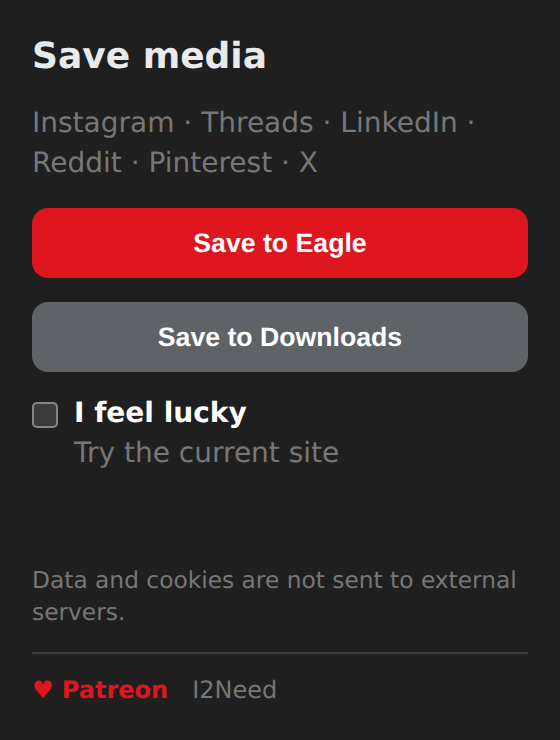
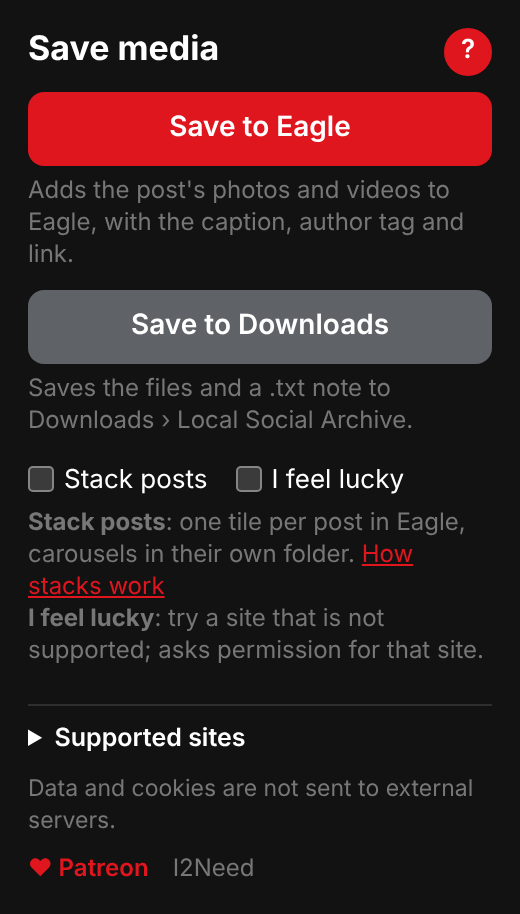
Compact popup with a ? help mode; "What's new" after updates
The popup had grown into a page of text. Now: title, two save buttons,
two toggles (Stack posts, I feel lucky). The ? button turns on help
mode: a caption under each control, a collapsible list of supported
sites, the privacy line and support links. It starts on for new users
and is remembered once turned off.

After an update the background marks the toolbar icon NEW
(onInstalled reason "update"); the popup shows the version's highlights
until dismissed, which clears the badge. The badge is the signal, so
users updating from versions that stored nothing still see it.

Save handlers are bound to the two save buttons only, so ? and the
dismiss button never start a save.

Claude-Session: https://claude.ai/code/session_01BWzGfyfB5TgAkvLPHxc4Ut

diff --git a/chrome-extension/popup.js b/chrome-extension/popup.js
@@ -1,18 +1,68 @@
 const status = document.querySelector('#status');
 const lucky = document.querySelector('#i-feel-lucky');
 const stack = document.querySelector('#stack-posts');
-// A per-browser preference; the extension has no storage permission.
-try { stack.checked = localStorage.getItem('stackPosts') === '1'; } catch { /* private mode */ }
+
+// Per-browser preferences; the extension has no storage permission.
+const prefs = {
+  get: key => { try { return localStorage.getItem(key); } catch { return null; } },
+  set: (key, value) => { try { localStorage.setItem(key, value); } catch { /* private mode */ } }
+};
+
+stack.checked = prefs.get('stackPosts') === '1';
 stack.addEventListener('change', () => {
-  try { localStorage.setItem('stackPosts', stack.checked ? '1' : '0'); } catch { /* ignore */ }
+  prefs.set('stackPosts', stack.checked ? '1' : '0');
   // The first time stacks are turned on, show the guide: they need a smart
   // folder in Eagle that only the user can create.
-  let seen = false;
-  try { seen = localStorage.getItem('stackGuideSeen') === '1'; localStorage.setItem('stackGuideSeen', '1'); } catch { /* ignore */ }
+  const seen = prefs.get('stackGuideSeen') === '1';
+  prefs.set('stackGuideSeen', '1');
   if (stack.checked && !seen) chrome.tabs.create({ url: chrome.runtime.getURL('stacks.html') });
 });
 
-for (const button of document.querySelectorAll('button')) button.addEventListener('click', async () => {
+// Help mode: the ? button shows a caption under each control, the supported
+// sites and the fine print. On until the user first turns it off.
+const helpButton = document.querySelector('#toggle-help');
+function setHelp(on) {
+  document.body.classList.toggle('help-on', on);
+  helpButton.setAttribute('aria-pressed', String(on));
+  helpButton.title = on ? 'Hide explanations' : 'Show explanations';
+}
+setHelp(prefs.get('helpMode') !== 'off');
+helpButton.addEventListener('click', () => {
+  const on = !document.body.classList.contains('help-on');
+  setHelp(on);
+  prefs.set('helpMode', on ? 'on' : 'off');
+});
+
+// What's new: the background marks the toolbar icon NEW after an update;
+// the popup shows this version's highlights until dismissed.
+const WHATS_NEW = {
+  '0.2.5': [
+    'A cleaner popup: press ? for explanations and the list of sites.',
+    'Photo-only posts from X save again.',
+    'Vimeo: cover and link, plus the video when its owner allows.',
+    'Stack posts in Eagle: one tile per post (see How stacks work).'
+  ]
+};
+(async () => {
+  let badge = '';
+  try { badge = await chrome.action.getBadgeText({}); } catch { /* older Chrome */ }
+  if (badge !== 'NEW') return;
+  const version = chrome.runtime.getManifest().version;
+  document.querySelector('#news-title').textContent = `What's new in ${version}`;
+  document.querySelector('#news-list').innerHTML = '';
+  for (const line of WHATS_NEW[version] || ['Improvements and fixes.']) {
+    const item = document.createElement('li');
+    item.textContent = line;
+    document.querySelector('#news-list').append(item);
+  }
+  document.querySelector('#whats-new').hidden = false;
+})();
+document.querySelector('#dismiss-news').addEventListener('click', () => {
+  document.querySelector('#whats-new').hidden = true;
+  chrome.action.setBadgeText({ text: '' });
+});
+
+for (const button of document.querySelectorAll('button.save')) button.addEventListener('click', async () => {
   const destination = button.id === 'save-eagle' ? 'eagle' : 'downloads';
   setDisabled(true);
   status.value = 'Collecting media from tab...';
@@ -41,7 +91,7 @@ function downloadSummary({ mediaCount, pending, failed, renamed, note }) {
   return lines.join('\n');
 }
 
-function setDisabled(disabled) { document.querySelectorAll('button').forEach(button => { button.disabled = disabled; }); }
+function setDisabled(disabled) { document.querySelectorAll('button.save').forEach(button => { button.disabled = disabled; }); }
 
 // Videos on X and Vimeo need another host (X's embed service, the Vimeo player); ask once, on the first save there.
 // Declining still saves the post's photos.

diff --git a/chrome-extension/popup.css b/chrome-extension/popup.css
@@ -1,20 +1,37 @@
-:root { color-scheme: light dark; font: 14px/1.4 system-ui, sans-serif; }
-body { width: 280px; margin: 0; }
-main { display: grid; gap: 12px; padding: 16px; }
-h1, p { margin: 0; }
-h1 { font-size: 18px; }
-p, small { color: #777; }
-button { border: 0; border-radius: 8px; padding: 10px 12px; background: #e0161f; color: white; cursor: pointer; font-weight: 600; }
+:root { color-scheme: light dark; font: 14px/1.4 system-ui, sans-serif; --accent: #e0161f; --muted: #777; --line: color-mix(in srgb, CanvasText 12%, transparent); }
+body { width: 260px; margin: 0; }
+main { display: grid; gap: 8px; padding: 14px; }
+header { display: flex; align-items: center; justify-content: space-between; }
+h1 { margin: 0; font-size: 17px; }
+button { border: 0; border-radius: 8px; padding: 10px 12px; background: var(--accent); color: white; cursor: pointer; font: 600 14px/1.2 system-ui, sans-serif; }
 .secondary { background: #5f6368; }
-.lucky-option { display: flex; align-items: start; gap: 8px; color: #777; cursor: pointer; }
-.lucky-option input { margin: 3px 0 0; }
-.lucky-option strong { color: CanvasText; }
 button:hover:not(:disabled) { filter: brightness(.92); }
 button:disabled { opacity: .6; cursor: wait; }
-output { min-height: 20px; white-space: pre-line; }
-.support { display: flex; gap: 12px; padding-top: 10px; border-top: 1px solid color-mix(in srgb, CanvasText 12%, transparent); font-size: 12px; }
-.support a { color: #777; text-decoration: none; }
-.support a:first-child { color: #e0161f; font-weight: 600; }
+.icon { display: grid; place-items: center; width: 24px; height: 24px; padding: 0; border: 1px solid var(--line); border-radius: 50%; background: none; color: var(--muted); font-size: 13px; }
+.icon[aria-pressed="true"] { border-color: var(--accent); background: var(--accent); color: #fff; }
+.icon.small { width: 20px; height: 20px; border: 0; font-size: 16px; }
+
+.toggles { display: flex; gap: 14px; margin-top: 2px; font-size: 13px; }
+.toggles label { display: flex; align-items: center; gap: 5px; cursor: pointer; }
+.toggles input { margin: 0; accent-color: var(--accent); }
+output { min-height: 0; white-space: pre-line; font-size: 13px; }
+output:not(:empty) { padding-top: 2px; }
+
+/* Explanations appear only in help mode (the ? button). */
+.caption, .help { display: none; }
+body.help-on .caption { display: block; margin: -4px 0 2px; color: var(--muted); font-size: 12px; line-height: 1.35; }
+body.help-on .help { display: grid; gap: 8px; padding-top: 8px; border-top: 1px solid var(--line); }
+.caption a { color: var(--accent); }
+details summary { cursor: pointer; font-size: 12.5px; font-weight: 600; }
+.sites { margin: 6px 0 0; padding-left: 16px; color: var(--muted); font-size: 12px; }
+.sites b { color: CanvasText; font-weight: 600; }
+.fine { margin: 0; color: var(--muted); font-size: 11.5px; }
+.support { display: flex; gap: 12px; font-size: 12px; }
+.support a { color: var(--muted); text-decoration: none; }
+.support a:first-child { color: var(--accent); font-weight: 600; }
 .support a:hover { text-decoration: underline; }
-.help-link { margin: -6px 0 0 24px; color: #e0161f; font-size: 12.5px; text-decoration: none; }
-.help-link:hover { text-decoration: underline; }
+
+.news { padding: 8px 10px; border: 1px solid color-mix(in srgb, var(--accent) 45%, transparent); border-radius: 8px; background: color-mix(in srgb, var(--accent) 8%, transparent); font-size: 12.5px; }
+.news-head { display: flex; align-items: center; justify-content: space-between; }
+.news ul { margin: 4px 0 0; padding-left: 16px; }
+.news li + li { margin-top: 2px; }

diff --git a/chrome-extension/popup.html b/chrome-extension/popup.html
@@ -8,25 +8,54 @@
   </head>
   <body>
     <main>
-      <h1>Save media</h1>
-      <p>Instagram · Threads · LinkedIn · Reddit · Pinterest · X · YouTube &amp; Vimeo</p>
-      <button id="save-eagle" type="button">Save to Eagle</button>
-      <button id="save-downloads" type="button" class="secondary">Save to Downloads</button>
-      <label class="lucky-option">
-        <input id="i-feel-lucky" type="checkbox">
-        <span><strong>I feel lucky</strong><br>Try the current site</span>
-      </label>
-      <label class="lucky-option">
-        <input id="stack-posts" type="checkbox">
-        <span><strong>Stack posts in Eagle</strong><br>One tile per post in a “Stacks” smart folder</span>
-      </label>
-      <a id="stack-help" class="help-link" href="stacks.html" target="_blank">How stacks work →</a>
+      <header>
+        <h1>Save media</h1>
+        <button id="toggle-help" class="icon" type="button" aria-pressed="false" title="Show explanations">?</button>
+      </header>
+
+      <section id="whats-new" class="news" hidden>
+        <div class="news-head"><strong id="news-title">What's new</strong>
+          <button id="dismiss-news" class="icon small" type="button" aria-label="Dismiss">×</button></div>
+        <ul id="news-list"></ul>
+      </section>
+
+      <button id="save-eagle" class="save" type="button">Save to Eagle</button>
+      <p class="caption">Adds the post's photos and videos to Eagle, with the caption, author tag and link.</p>
+      <button id="save-downloads" class="save secondary" type="button">Save to Downloads</button>
+      <p class="caption">Saves the files and a .txt note to Downloads › Local Social Archive.</p>
+
+      <div class="toggles">
+        <label><input id="stack-posts" type="checkbox"> Stack posts</label>
+        <label><input id="i-feel-lucky" type="checkbox"> I feel lucky</label>
+      </div>
+      <p class="caption">
+        <strong>Stack posts</strong>: one tile per post in Eagle, carousels in their own folder.
+        <a href="stacks.html" target="_blank">How stacks work</a><br>
+        <strong>I feel lucky</strong>: try a site that is not supported; asks permission for that site.
+      </p>
+
       <output id="status" aria-live="polite"></output>
-      <small>Data and cookies are not sent to external servers.</small>
-      <nav class="support">
-        <a href="https://www.patreon.com/c/d_degtyar" target="_blank" rel="noopener">♥ Patreon</a>
-        <a href="https://t.me/I2need" target="_blank" rel="noopener">I2Need</a>
-      </nav>
+
+      <section class="help">
+        <details>
+          <summary>Supported sites</summary>
+          <ul class="sites">
+            <li><b>Instagram</b> posts, carousels, Reels, Stories</li>
+            <li><b>Threads</b> posts</li>
+            <li><b>LinkedIn</b> images, carousels, videos</li>
+            <li><b>Reddit</b> images, galleries, videos</li>
+            <li><b>Pinterest</b> pins at original size</li>
+            <li><b>X</b> photos and videos</li>
+            <li><b>YouTube</b> cover, title and link</li>
+            <li><b>Vimeo</b> cover, plus the video if its owner allows</li>
+          </ul>
+        </details>
+        <p class="fine">Data and cookies are not sent to external servers.</p>
+        <nav class="support">
+          <a href="https://www.patreon.com/c/d_degtyar" target="_blank" rel="noopener">♥ Patreon</a>
+          <a href="https://t.me/I2need" target="_blank" rel="noopener">I2Need</a>
+        </nav>
+      </section>
     </main>
     <script src="popup.js"></script>
   </body>

diff --git a/chrome-extension/background.js b/chrome-extension/background.js
@@ -37,6 +37,14 @@ function asciiPath(path) {
   }).join('/');
 }
 
+// After an update, mark the toolbar icon so the change is visible; the popup
+// shows what is new and clears the mark when dismissed.
+chrome.runtime.onInstalled.addListener(({ reason }) => {
+  if (reason !== 'update') return;
+  chrome.action.setBadgeText({ text: 'NEW' });
+  chrome.action.setBadgeBackgroundColor({ color: '#e0161f' });
+});
+
 chrome.runtime.onMessage.addListener((message, _sender, sendResponse) => {
   if (message.type !== 'ARCHIVE_ACTIVE_TAB') return;
   archiveActiveTab(message.destination, message.universal === true, message.stack === true).then(sendResponse).catch(error => sendResponse({ ok: false, error: error.message }));

diff --git a/CHANGELOG.md b/CHANGELOG.md
@@ -2,6 +2,8 @@
 
 ## 0.2.5 — Unreleased
 
+- Compact popup: two save buttons and two toggles. The ? button turns on explanations (a caption under each control, the supported sites, privacy note and support links); it is on for new users and remembered once turned off.
+- What's new: after an update the toolbar icon shows NEW and the popup lists the version's highlights until dismissed.
 - Vimeo: videos save as reference cards like YouTube (largest cover, title, author, description, link). The MP4 is added when the owner allows downloads (the page's Download button or the player config) and Vimeo serves a progressive file; otherwise the popup says why only the card was saved.
 - X: photo-only posts save again. The open post is found by its timestamp link, by X's focus marker, or by its photo links, so replies in threads and posts without a timestamp link work; photos painted only as a background image (behind content warnings) are found too. The embed service is read for photos as well, and when nothing is found the popup says why.
 - Stack posts in Eagle: an option in the popup. Posts with several files go into their own folder under "Social Stacks" and the first file is tagged "Main Cover"; single files get the tag without a folder. A smart folder filtered by that tag shows one tile per post.
